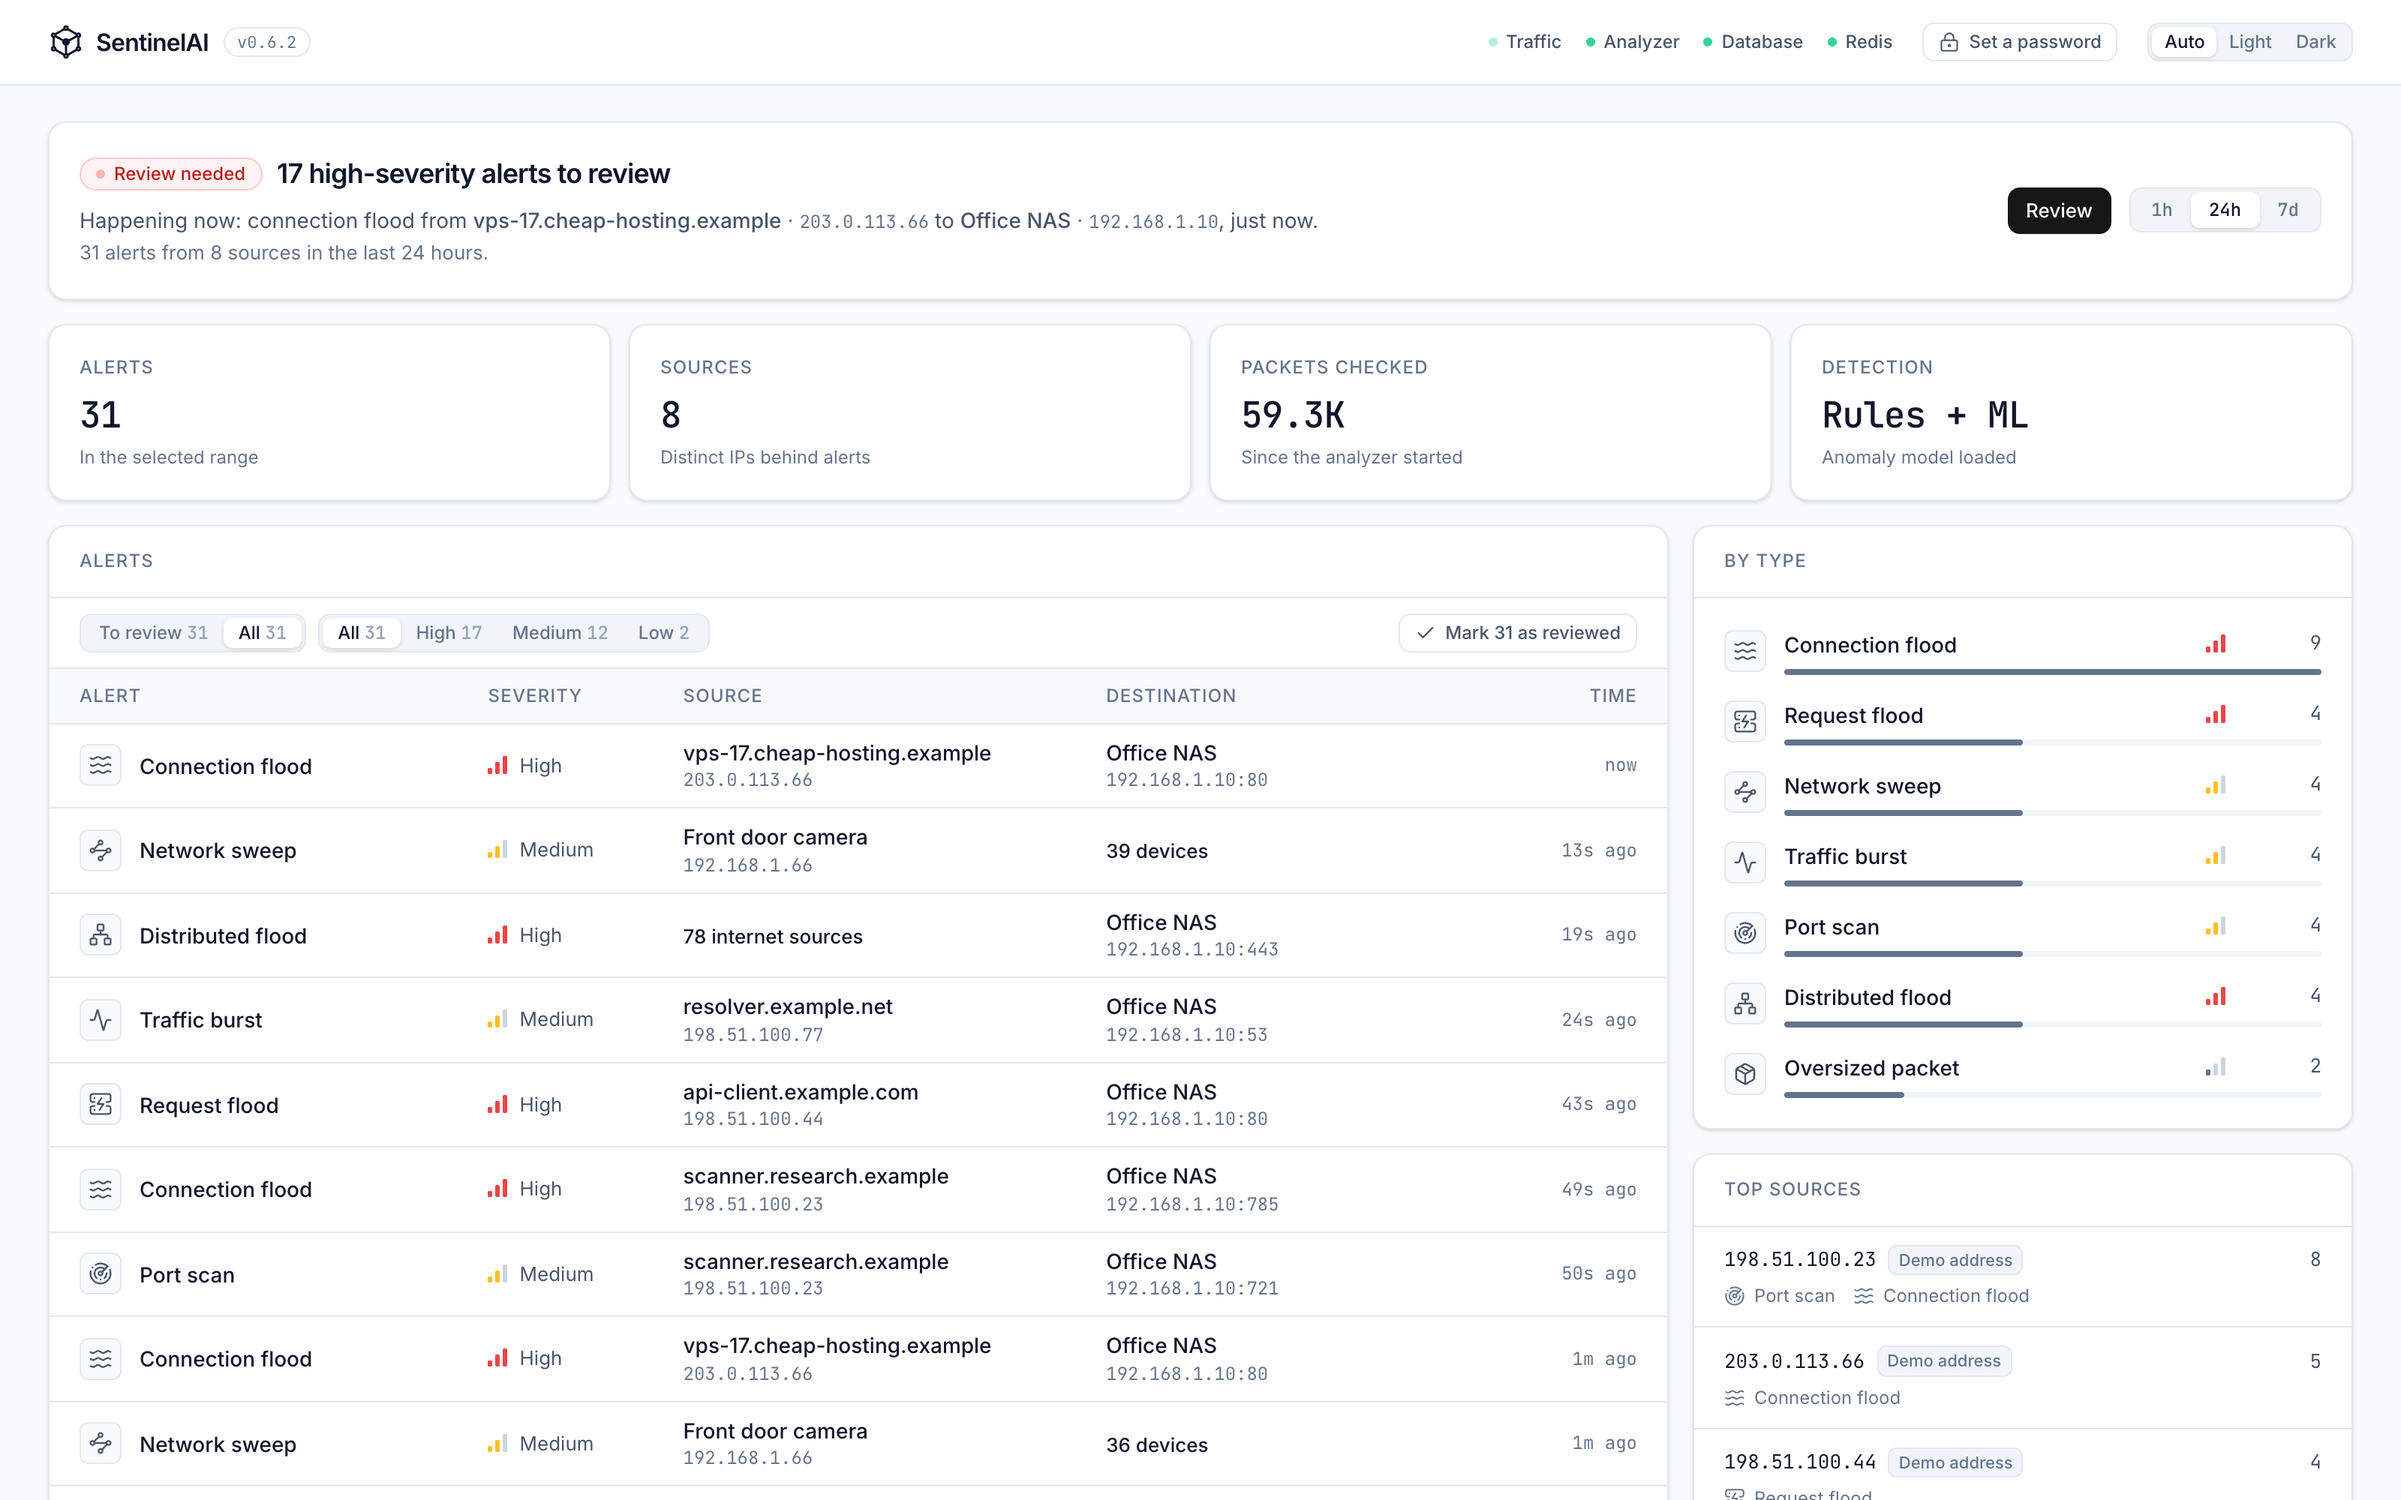
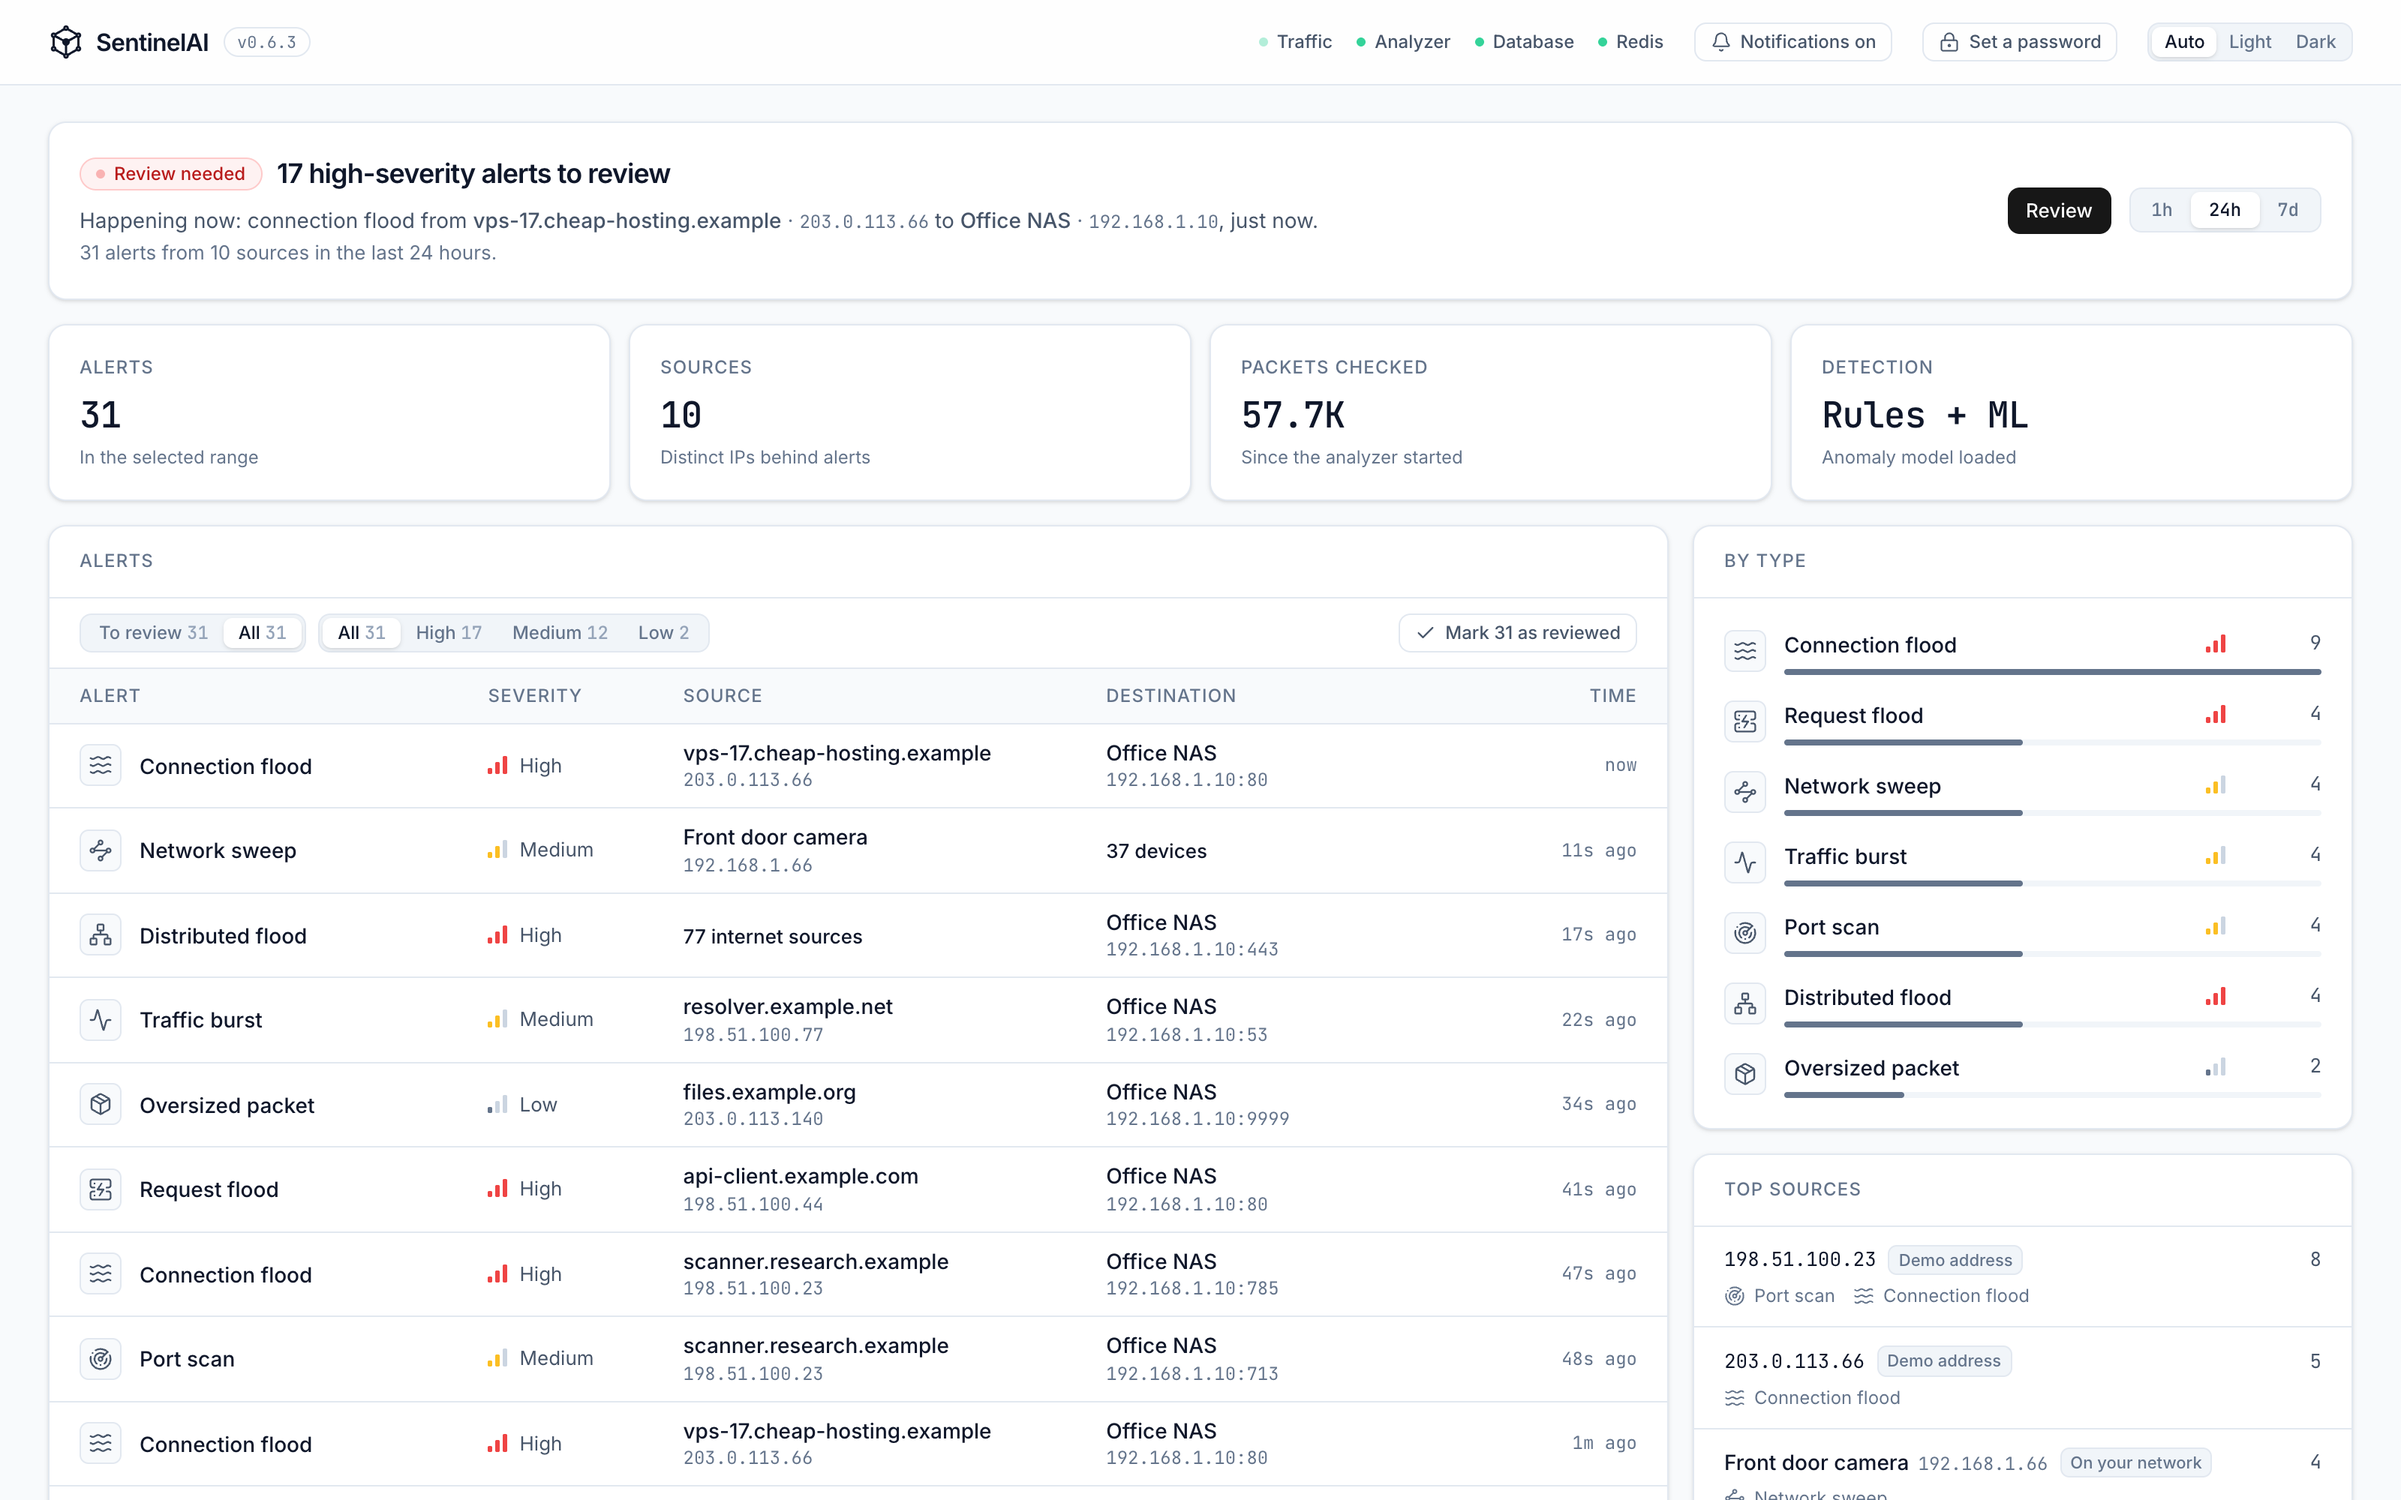
Release 0.6.3

diff --git a/website/data/site.ts b/website/data/site.ts
@@ -12,7 +12,7 @@
 
 export const site = {
   name: "SentinelAI",
-  version: "0.6.2",
+  version: "0.6.3",
   repo: "https://github.com/smngvlkz/sentinel",
   evaluationDoc: "https://github.com/smngvlkz/sentinel/blob/master/docs/evaluation.md",
   roadmapDoc: "https://github.com/smngvlkz/sentinel/blob/master/docs/ROADMAP.md",
@@ -139,7 +139,7 @@ export const resultNotes: string[] = [
   "In 0.6.2, browsers opening many connections at once and quick bursts of lookups to an office server stopped raising false alarms, and floods that repeat after a pause stopped being missed. Every number on these tabs is measured with those rules. Normal machines are counted on each day leaving out every machine involved in a labelled attack.",
 ];
 
-export type FeatureIcon = "radar" | "message" | "tag" | "check" | "shuffle" | "gauge" | "lock" | "play";
+export type FeatureIcon = "radar" | "message" | "bell" | "tag" | "check" | "shuffle" | "gauge" | "lock" | "play";
 
 export type Feature = { tag: string; icon: FeatureIcon; title: string; body: string; points?: string[] };
 
@@ -161,6 +161,18 @@ export const features: Feature[] = [
     icon: "message",
     title: "Alerts in plain language",
     body: "Every alert says what happened, whether the source is on your network or the internet, the evidence behind it, and what to do next.",
+  },
+  {
+    tag: "Notifications",
+    icon: "bell",
+    title: "Alerts on your phone",
+    body: "High-severity alerts reach your phone in seconds, through your own ntfy server, email, Discord, Slack or Telegram. Each one names the devices involved and opens the alert in the dashboard.",
+    points: [
+      "Once per attack: an attack that goes on doesn't buzz your phone every minute",
+      "At most 10 an hour, with the rest in one summary, and optional quiet hours",
+      "Your own ntfy server keeps alerts on your machine, locked so only your phone can read them",
+      "A failed send is retried, and never holds up detection",
+    ],
   },
   {
     tag: "Names",
@@ -201,7 +213,7 @@ export const features: Feature[] = [
     tag: "Privacy",
     icon: "lock",
     title: "Private by design",
-    body: "Everything runs on your hardware. By default it reads packet headers, not contents; optional hostname learning reads only DNS answers, HTTP Host headers and TLS server names. Every service listens on this machine only, unless you set a password and open the dashboard to your phone. No account, no cloud.",
+    body: "Everything runs on your hardware. By default it reads packet headers, not contents; optional hostname learning reads only DNS answers, HTTP Host headers and TLS server names. Every service listens on this machine only, unless you set a password and open the dashboard to your phone. Notifications go to your own ntfy server unless you choose email or a chat app. No account, no cloud.",
   },
   {
     tag: "Demo",
@@ -211,7 +223,7 @@ export const features: Feature[] = [
   },
 ];
 
-export type NextIcon = "cpu" | "bell" | "sparkles";
+export type NextIcon = "cpu" | "sparkles";
 
 export type NextItem = { icon: NextIcon; title: string; body: string };
 
@@ -221,11 +233,6 @@ export const next: NextItem[] = [
     icon: "cpu",
     title: "Raspberry Pi installer",
     body: "A Raspberry Pi 4 or 5 on a mirror port of your switch, watching every device and starting on boot.",
-  },
-  {
-    icon: "bell",
-    title: "Phone notifications",
-    body: "High-severity alerts through ntfy, email or a webhook, with quiet hours and rate limits.",
   },
   {
     icon: "sparkles",

diff --git a/website/components/WhatsNext.vue b/website/components/WhatsNext.vue
@@ -1,8 +1,10 @@
 <script setup lang="ts">
-import { BellRing, Cpu, Sparkles } from "lucide-vue-next";
+import { Cpu, Sparkles } from "lucide-vue-next";
 import { next, site, type NextIcon } from "~/data/site";
 
-const icons: Record<NextIcon, unknown> = { cpu: Cpu, bell: BellRing, sparkles: Sparkles };
+const icons: Record<NextIcon, unknown> = { cpu: Cpu, sparkles: Sparkles };
+// One column per planned item, so the grid never ends in an empty cell.
+const columns = next.length >= 3 ? "md:grid-cols-3" : "md:grid-cols-2";
 </script>
 
 <template>
@@ -13,7 +15,7 @@ const icons: Record<NextIcon, unknown> = { cpu: Cpu, bell: BellRing, sparkles: S
         title="Planned, not built yet."
         lead="None of this exists today. Each has a written plan, with what it must do before it ships."
       />
-      <div class="mt-12 grid gap-px overflow-hidden rounded-xl border border-line bg-line md:grid-cols-3">
+      <div class="mt-12 grid gap-px overflow-hidden rounded-xl border border-line bg-line" :class="columns">
         <article v-for="n in next" :key="n.title" class="bg-bg p-6 transition-colors duration-200 hover:bg-bg-3">
           <div class="flex items-center justify-between gap-3">
             <component :is="icons[n.icon]" class="size-5 text-fg-3" :stroke-width="1.5" aria-hidden="true" />

diff --git a/website/components/FeatureList.vue b/website/components/FeatureList.vue
@@ -1,5 +1,5 @@
 <script setup lang="ts">
-import { CheckCheck, CirclePlay, Gauge, Lock, MessageSquareText, Radar, Shuffle, Tag } from "lucide-vue-next";
+import { BellRing, CheckCheck, CirclePlay, Gauge, Lock, MessageSquareText, Radar, Shuffle, Tag } from "lucide-vue-next";
 import { features, type FeatureIcon } from "~/data/site";
 
 // Same icon set as the dashboard (lucide); Shuffle is its "Unusual traffic" icon.
@@ -7,6 +7,7 @@ const icons: Record<FeatureIcon, unknown> = {
   radar: Radar,
   tag: Tag,
   message: MessageSquareText,
+  bell: BellRing,
   check: CheckCheck,
   shuffle: Shuffle,
   gauge: Gauge,

diff --git a/dashboard-api/main.py b/dashboard-api/main.py
@@ -36,7 +36,7 @@ load_dotenv()
 
 log = logging.getLogger(__name__)
 
-VERSION = "0.6.2"
+VERSION = "0.6.3"
 
 STREAM_NAME = "packet_stream"
 HEARTBEAT_KEY = "sentinel:analyzer:heartbeat"

diff --git a/CHANGELOG.md b/CHANGELOG.md
@@ -6,6 +6,8 @@ uses [Semantic Versioning](https://semver.org/).
 
 ## [Unreleased]
 
+## [0.6.3] - 2026-10-16
+
 ### Added
 
 - Notifications: SentinelAI can now tell your phone, your email or a chat
@@ -401,7 +403,8 @@ First public release.
 - Evaluation against CIC-IDS2017, with results in
   [docs/evaluation.md](docs/evaluation.md).
 
-[Unreleased]: https://github.com/smngvlkz/sentinel/compare/v0.6.2...HEAD
+[Unreleased]: https://github.com/smngvlkz/sentinel/compare/v0.6.3...HEAD
+[0.6.3]: https://github.com/smngvlkz/sentinel/compare/v0.6.2...v0.6.3
 [0.6.2]: https://github.com/smngvlkz/sentinel/compare/v0.6.1...v0.6.2
 [0.6.1]: https://github.com/smngvlkz/sentinel/compare/v0.6.0...v0.6.1
 [0.6.0]: https://github.com/smngvlkz/sentinel/compare/v0.5.0...v0.6.0
